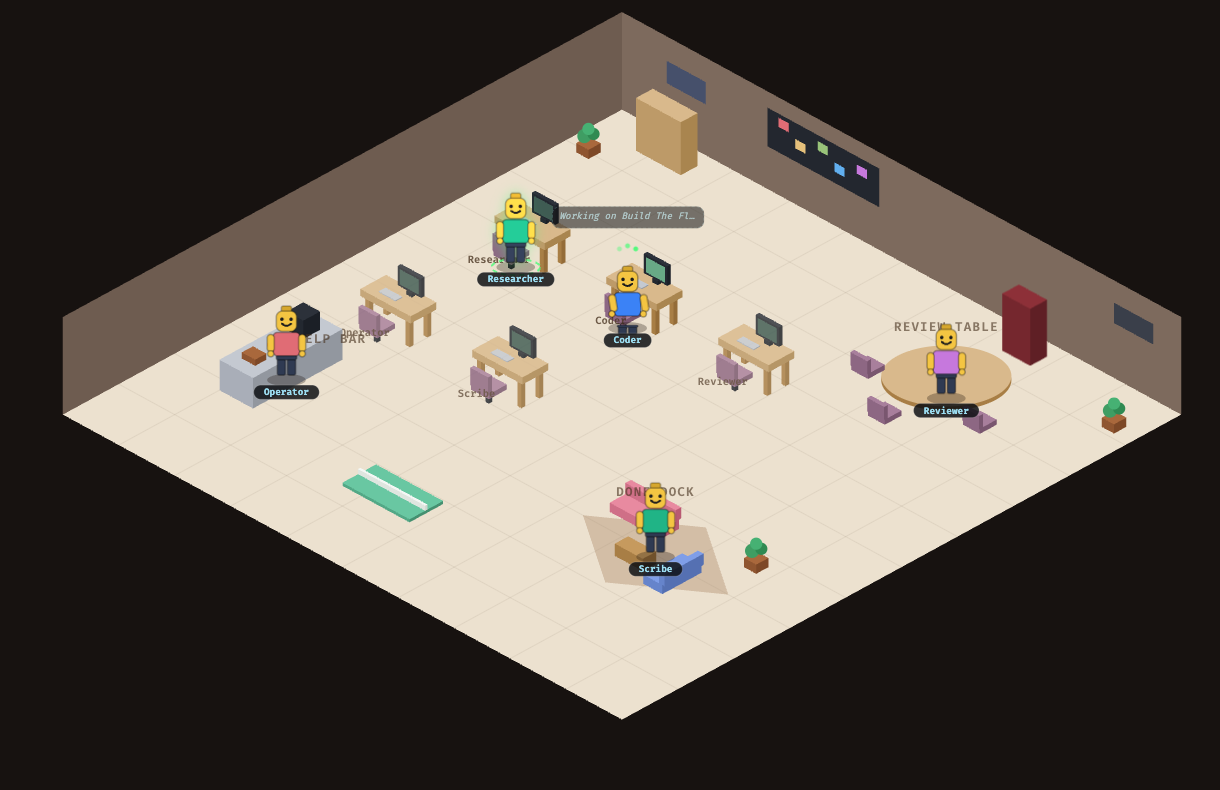
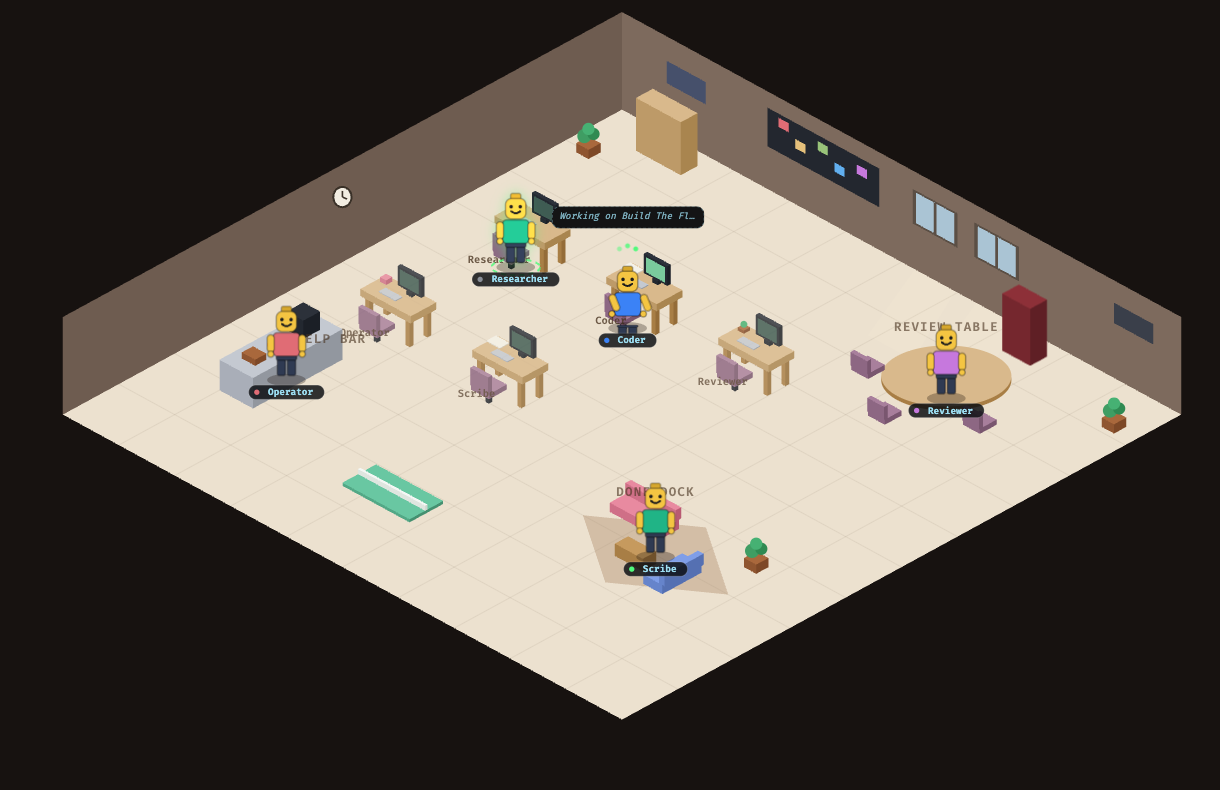
feat(paperclip): floor polish — smooth motion, windows, clock, desk props, status dots
Movement is now consumed per rendered frame: agents track lastX/lastY,
commitWorkspaceLayout() advances them after each render, and the walk
animation plays exactly once per move instead of replaying on every event
tick (the old previousZone flag persisted until the agent's next status
event). Identical re-renders skip the innerHTML write entirely so idle
animations stop restarting on no-op events.

Scene polish: two back-wall windows with sky glass, mullions, and light
pools on the floor; an analog wall clock; deterministic desk props per
slot (coffee mug — steaming while its owner works — paper stack,
succulent); zone-colored status dots on agent name chips; role-colored
accents on Board view cards. Docs renders refreshed.

diff --git a/static/js/paperclip.js b/static/js/paperclip.js
@@ -152,12 +152,8 @@ function applyFloorEvent(state, event) {
   state.lastUpdated = Date.now();
 
   if (type === 'agent.status' || type === 'heartbeat.run.queued' || type === 'heartbeat.run.status') {
-    const agentId = payloadAgentId(payload);
-    const known = state.agents.has(agentId);
-    const agent = ensureAgent(state, agentId, payload);
+    const agent = ensureAgent(state, payloadAgentId(payload), payload);
     const status = payload.status || payload.state || (type === 'heartbeat.run.queued' ? 'queued' : agent.status);
-    // A brand-new agent has no previous spot to walk from.
-    agent.previousZone = known ? agent.zone : undefined;
     agent.status = status;
     agent.zone = zoneForStatus(status);
     agent.task = payload.task || payload.title || payload.run?.title || agent.task;
@@ -172,12 +168,9 @@ function applyFloorEvent(state, event) {
   }
 
   if (type === 'heartbeat.run.log') {
-    const agentId = payloadAgentId(payload);
-    const known = state.agents.has(agentId);
-    const agent = ensureAgent(state, agentId, payload);
+    const agent = ensureAgent(state, payloadAgentId(payload), payload);
     const chunk = payload.chunk || payload.text || payload.message || '';
     if (chunk) pushLimited(agent.transcript, chunk, 32);
-    agent.previousZone = known ? agent.zone : undefined;
     agent.status = 'running';
     agent.zone = 'working';
     agent.thinking = true;
@@ -186,12 +179,9 @@ function applyFloorEvent(state, event) {
   }
 
   if (type === 'heartbeat.run.event') {
-    const agentId = payloadAgentId(payload);
-    const known = state.agents.has(agentId);
-    const agent = ensureAgent(state, agentId, payload);
+    const agent = ensureAgent(state, payloadAgentId(payload), payload);
     const tool = payload.tool || payload.name || payload.event || 'tool';
     pushLimited(agent.tools, tool, 8);
-    agent.previousZone = known ? agent.zone : undefined;
     agent.zone = 'working';
     agent.thinking = true;
     agent.updatedAt = Date.now();
@@ -309,14 +299,17 @@ function computeWorkspaceLayout(state = _floorState) {
     const zoneIndex = zoneCounts[agent.zone] || 0;
     zoneCounts[agent.zone] = zoneIndex + 1;
     const point = workspacePoint(state, agent.id, agent.zone, zoneIndex);
-    const fromPoint = workspacePoint(state, agent.id, agent.previousZone || agent.zone, zoneIndex);
+    // Walk from wherever the last rendered frame left the agent; a fresh
+    // agent appears in place. commitWorkspaceLayout() advances lastX/lastY
+    // after each render so a move animates exactly once.
+    const hasLast = agent.lastX !== undefined && agent.lastY !== undefined;
     return {
       ...agent,
       x: point.x,
       y: point.y,
-      fromX: fromPoint.x,
-      fromY: fromPoint.y,
-      moving: agent.previousZone && agent.previousZone !== agent.zone,
+      fromX: hasLast ? agent.lastX : point.x,
+      fromY: hasLast ? agent.lastY : point.y,
+      moving: false,
     };
   });
   const byId = new Map(agents.map((agent) => [agent.id, agent]));
@@ -347,7 +340,12 @@ function computeWorkspaceLayout(state = _floorState) {
     const side = meeting.to.x >= meeting.from.x ? -1 : 1;
     meeting.from.x = clampX(meeting.to.x + side * 13);
     meeting.from.y = clampY(meeting.to.y + 4);
-    meeting.from.moving = meeting.from.x !== meeting.from.fromX || meeting.from.y !== meeting.from.fromY;
+  }
+
+  // Final positions are settled: anything displaced since the last rendered
+  // frame walks there.
+  for (const agent of agents) {
+    agent.moving = agent.x !== agent.fromX || agent.y !== agent.fromY;
   }
 
   const talkingIds = new Set();
@@ -378,6 +376,7 @@ function computeWorkspaceLayout(state = _floorState) {
     return {
       ownerId: agent.id,
       ownerName: agent.name,
+      slot: state.deskAssignments?.get(agent.id) ?? 0,
       x: point.x,
       y: point.y,
       active: agent.zone === 'working',
@@ -393,6 +392,19 @@ function computeWorkspaceLayout(state = _floorState) {
     conversations,
     murmurs,
   };
+}
+
+// Record where this frame left every agent so the next layout walks from
+// there (and only walks when something actually moved).
+function commitWorkspaceLayout(state, layout) {
+  if (!state?.agents || !layout?.agents) return;
+  for (const rendered of layout.agents) {
+    const agent = state.agents.get(rendered.id);
+    if (agent) {
+      agent.lastX = rendered.x;
+      agent.lastY = rendered.y;
+    }
+  }
 }
 
 // ── Isometric stage ──────────────────────────────────────────────────────
@@ -493,6 +505,33 @@ function wallPanelSVG(gx1, gx2, hTop, hSize, fill, stickies = []) {
   return `<polygon points="${quadAt(gx1, gx2, hTop, hSize)}" fill="${fill}"/>${notes}`;
 }
 
+// A window on the back wall: frame, sky glass, mullion, and a soft pool of
+// daylight spilling onto the floor.
+function windowSVG(gx1, gx2, hTop, hSize) {
+  const mid = (gx1 + gx2) / 2;
+  const a = isoProject(gx1 + 0.4, 0);
+  const b = isoProject(gx2 - 0.4, 0);
+  const c = isoProject(gx2 + 7, 15);
+  const d = isoProject(gx1 + 7, 15);
+  return `<g class="paperclip-iso-window">` +
+    wallPanelSVG(gx1, gx2, hTop, hSize, '#5b4f45') +
+    wallPanelSVG(gx1 + 0.6, gx2 - 0.6, hTop - 2, hSize - 4, '#aac4d4') +
+    wallPanelSVG(mid - 0.25, mid + 0.25, hTop - 2, hSize - 4, '#5b4f45') +
+    `<polygon class="paperclip-window-light" points="${isoPoints([a, b, c, d])}" fill="rgba(255, 244, 212, 0.1)"/>` +
+    '</g>';
+}
+
+// Analog clock on the left wall (an ellipse approximates the wall angle).
+function wallClockSVG(gy, height) {
+  const p = isoProject(0, gy);
+  const cy = p.py - height;
+  return `<g class="paperclip-wall-clock">` +
+    `<ellipse cx="${p.px.toFixed(1)}" cy="${cy.toFixed(1)}" rx="9" ry="10" fill="#f2ede2" stroke="#3a3128" stroke-width="2"/>` +
+    `<line x1="${p.px.toFixed(1)}" y1="${cy.toFixed(1)}" x2="${p.px.toFixed(1)}" y2="${(cy - 6).toFixed(1)}" stroke="#3a3128" stroke-width="1.6"/>` +
+    `<line x1="${p.px.toFixed(1)}" y1="${cy.toFixed(1)}" x2="${(p.px + 4.5).toFixed(1)}" y2="${(cy + 2).toFixed(1)}" stroke="#3a3128" stroke-width="1.6"/>` +
+    '</g>';
+}
+
 function wallDecorSVG() {
   return [
     // Kanban board with sticky notes.
@@ -503,6 +542,10 @@ function wallDecorSVG() {
     // Picture frames.
     wallPanelSVG(8, 15, 72, 22, '#46506b'),
     wallPanelSVG(88, 95, 74, 20, '#3a3f4a'),
+    // Daylight.
+    windowSVG(52, 60, 78, 34),
+    windowSVG(63, 71, 78, 34),
+    wallClockSVG(50, 64),
   ].join('');
 }
 
@@ -513,6 +556,27 @@ function screenSVG(gx, gy, w, hBottom, hTop, active) {
     { px: a.px, py: a.py - hTop + 2 }, { px: b.px, py: b.py - hTop + 2 },
     { px: b.px, py: b.py - hBottom - 2 }, { px: a.px, py: a.py - hBottom - 2 },
   ])}" fill="#7fd4a3"/>`;
+}
+
+// A small personal item on the desktop, stable per desk slot: a coffee mug,
+// a stack of papers, or a tiny succulent.
+function deskPropSVG(gx, gy, slot, active) {
+  const kind = slot % 3;
+  if (kind === 0) {
+    const p = isoProject(gx, gy);
+    const steam = active
+      ? `<circle cx="${p.px.toFixed(1)}" cy="${(p.py - 42).toFixed(1)}" r="1.4" fill="rgba(255,255,255,0.4)"/>`
+      : '';
+    return `<g class="paperclip-desk-prop prop-mug">${isoBoxSVG(gx, gy, 1.1, 1.1, 33, 37.5, PALETTE.sofaPink)}${steam}</g>`;
+  }
+  if (kind === 1) {
+    return `<g class="paperclip-desk-prop prop-papers">${isoBoxSVG(gx, gy, 2.4, 1.7, 33, 33.9, { top: '#f4f1e8', left: '#ddd8cb', right: '#cbc6b8' })}</g>`;
+  }
+  const p = isoProject(gx, gy);
+  return `<g class="paperclip-desk-prop prop-plant">` +
+    isoBoxSVG(gx, gy, 1.1, 1.1, 33, 36, PALETTE.plantPot) +
+    `<circle cx="${p.px.toFixed(1)}" cy="${(p.py - 39).toFixed(1)}" r="3.4" fill="#46b173"/>` +
+    '</g>';
 }
 
 function deskSVG(desk) {
@@ -531,6 +595,7 @@ function deskSVG(desk) {
   parts.push(isoBoxSVG(x + 1, y - 1.3, 4.2, 0.6, 37, 56, PALETTE.dark));
   parts.push(screenSVG(x + 1, y - 1.3, 4.2, 37, 56, desk.active));
   parts.push(isoBoxSVG(x - 0.8, y + 0.6, 3, 1.2, 33, 34, PALETTE.metal));
+  parts.push(deskPropSVG(x - 3.4, y - 1.2, desk.slot, desk.active));
   const np = isoProject(x - 2.6, y + 3.4);
   const classes = [
     'paperclip-agent-desk',
@@ -638,8 +703,9 @@ function renderWorkspaceAgentSVG(agent, selected = false) {
     agent.workingAtDesk ? 'working-at-desk' : '',
     `pose-${agent.pose || 'standing'}`,
     `role-${roleKey}`,
+    `zone-${zoneKey}`,
   ].filter(Boolean).join(' ');
-  const chipWidth = Math.min(132, agent.name.length * 5.8 + 18);
+  const chipWidth = Math.min(140, agent.name.length * 5.8 + 28);
   const trail = agent.moving
     ? `<line class="paperclip-walk-path" x1="${f.px.toFixed(1)}" y1="${f.py.toFixed(1)}" x2="${p.px.toFixed(1)}" y2="${p.py.toFixed(1)}"/>`
     : '';
@@ -687,7 +753,8 @@ function renderWorkspaceAgentSVG(agent, selected = false) {
       ` : ''}
       <g class="paperclip-iso-chip">
         <rect x="${(-chipWidth / 2).toFixed(1)}" y="7" width="${chipWidth.toFixed(1)}" height="14" rx="7"/>
-        <text class="paperclip-iso-name" x="0" y="17" text-anchor="middle">${escapeHTML(agent.name)}</text>
+        <circle class="paperclip-chip-dot" cx="${(-chipWidth / 2 + 8).toFixed(1)}" cy="14" r="2.6"/>
+        <text class="paperclip-iso-name" x="4" y="17" text-anchor="middle">${escapeHTML(agent.name)}</text>
       </g>
     </g>
   `;
@@ -720,8 +787,7 @@ function renderConversationHTML(layout) {
   return bubbles.join('');
 }
 
-function renderWorkspaceHTML(state = _floorState) {
-  const layout = computeWorkspaceLayout(state);
+function renderWorkspaceHTML(state = _floorState, layout = computeWorkspaceLayout(state)) {
   // Furniture and agents share one depth-sorted paint list so anything nearer
   // the viewer genuinely occludes what stands behind it. Ties paint agents
   // after furniture (kind 1 > 0) so a seated agent shows in front of their desk.
@@ -792,10 +858,17 @@ function renderFocusHTML(state) {
   `;
 }
 
-function renderZones(state = _floorState) {
+let _lastFloorHTML = '';
+
+function renderZones(state = _floorState, layout = undefined) {
   const zoneGrid = $('paperclip-zone-grid');
   if (!zoneGrid) return;
-  zoneGrid.innerHTML = renderWorkspaceHTML(state);
+  const html = renderWorkspaceHTML(state, layout);
+  // Rewriting identical markup restarts every CSS animation; skip no-ops.
+  if (html !== _lastFloorHTML || !zoneGrid.firstChild) {
+    zoneGrid.innerHTML = html;
+    _lastFloorHTML = html;
+  }
   scaleWorkspaceStage();
 }
 
@@ -826,7 +899,7 @@ function renderBoard(state = _floorState) {
         </div>
         <div class="paperclip-board-cards">
           ${zoneAgents.map((agent) => `
-            <button type="button" class="paperclip-board-card ${agent.id === state.selectedAgentId ? 'selected' : ''}" data-agent-id="${escapeHTML(agent.id)}">
+            <button type="button" class="paperclip-board-card role-${normalizeRole(agent.role)} ${agent.id === state.selectedAgentId ? 'selected' : ''}" data-agent-id="${escapeHTML(agent.id)}">
               <span>${escapeHTML(agent.name)}</span>
               <small>${escapeHTML(agent.task || 'Ready')}</small>
             </button>
@@ -838,7 +911,8 @@ function renderBoard(state = _floorState) {
 }
 
 function renderFloor() {
-  renderZones(_floorState);
+  const layout = computeWorkspaceLayout(_floorState);
+  renderZones(_floorState, layout);
   renderBoard(_floorState);
   const focus = $('paperclip-focus-pane');
   if (focus) focus.innerHTML = renderFocusHTML(_floorState);
@@ -849,6 +923,7 @@ function renderFloor() {
   const liveCount = $('paperclip-live-count');
   if (liveCount) liveCount.textContent = `${_floorState.agents.size} agents`;
   bindAgentSelection();
+  commitWorkspaceLayout(_floorState, layout);
 }
 
 function liveStateLabel() {
@@ -1163,6 +1238,7 @@ export {
   applyFloorEvent,
   applyStatus,
   bindAgentSelection,
+  commitWorkspaceLayout,
   computeWorkspaceLayout,
   createFloorState,
   createLiveEventStream,

diff --git a/static/style.css b/static/style.css
@@ -548,6 +548,13 @@ g.paperclip-roaming-agent.walking .paperclip-fig-leg.right {
   fill: var(--fg);
 }
 
+/* Status dot on the name chip, colored by the agent's zone. */
+.paperclip-chip-dot { fill: #8a8f98; }
+g.zone-working .paperclip-chip-dot { fill: #3b82f6; }
+g.zone-review .paperclip-chip-dot { fill: #c678dd; }
+g.zone-blocked .paperclip-chip-dot { fill: #e06c75; }
+g.zone-done .paperclip-chip-dot { fill: #50fa7b; }
+
 g.paperclip-speech-burst rect {
   fill: color-mix(in srgb, var(--panel) 92%, var(--bg));
   stroke: color-mix(in srgb, var(--green) 60%, var(--border));
@@ -846,6 +853,12 @@ g.paperclip-roaming-agent.thinking .paperclip-fig-arm {
   color: color-mix(in srgb, var(--fg) 60%, transparent);
   line-height: 1.35;
 }
+
+/* Role accent matching the minifig torso colors. */
+.paperclip-board-card.role-research { border-left: 3px solid #20b486; }
+.paperclip-board-card.role-coding { border-left: 3px solid #3b82f6; }
+.paperclip-board-card.role-review { border-left: 3px solid #c678dd; }
+.paperclip-board-card.role-ops { border-left: 3px solid #e06c75; }
 
 .paperclip-classic-view iframe {
   width: 100%;

diff --git a/static/index.html b/static/index.html
@@ -213,7 +213,7 @@
       }, { once: true });
     })();
   </script>
-  <link rel="stylesheet" href="/static/style.css?v=paperclip-floor-20260610c">
+  <link rel="stylesheet" href="/static/style.css?v=paperclip-floor-20260610d">
   <link rel="modulepreload" href="/static/app.js">
   <link rel="modulepreload" href="/static/js/chat.js">
   <link rel="modulepreload" href="/static/js/ui.js">
@@ -2393,7 +2393,7 @@
 <script type="module" src="/static/js/chatStream.js"></script>
 <script type="module" src="/static/js/chat.js?v=20260520m"></script>
 <script type="module" src="/static/js/cookbook.js"></script>
-<script type="module" src="/static/js/paperclip.js?v=paperclip-floor-20260610c"></script>
+<script type="module" src="/static/js/paperclip.js?v=paperclip-floor-20260610d"></script>
 <script type="module" src="/static/js/search-chat.js"></script>
 <script type="module" src="/static/js/compare/index.js"></script>
 <script type="module" src="/static/js/theme.js"></script>